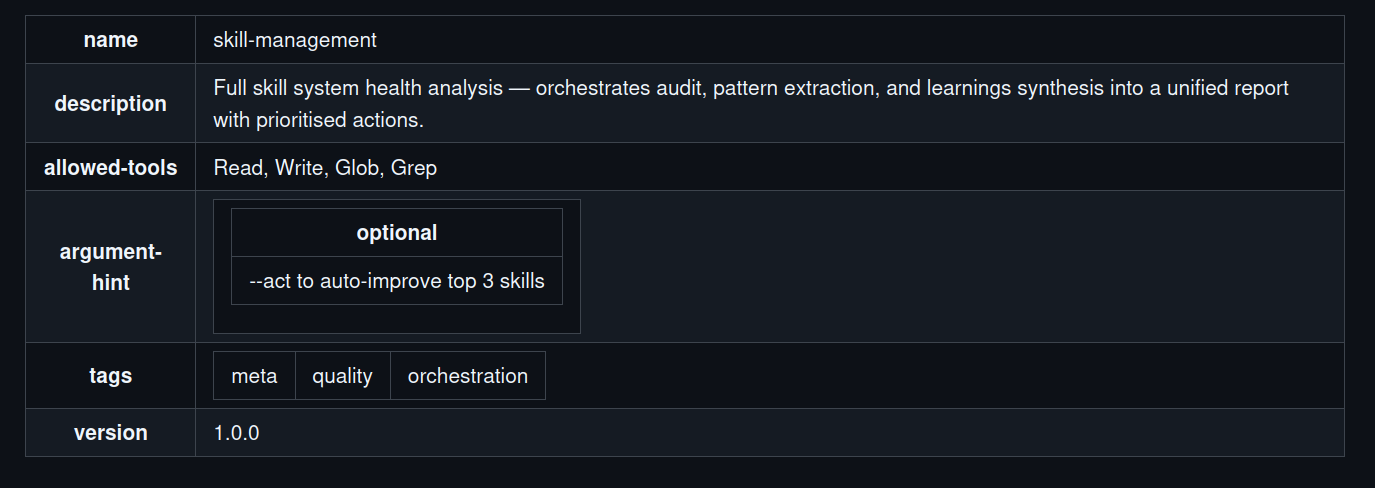
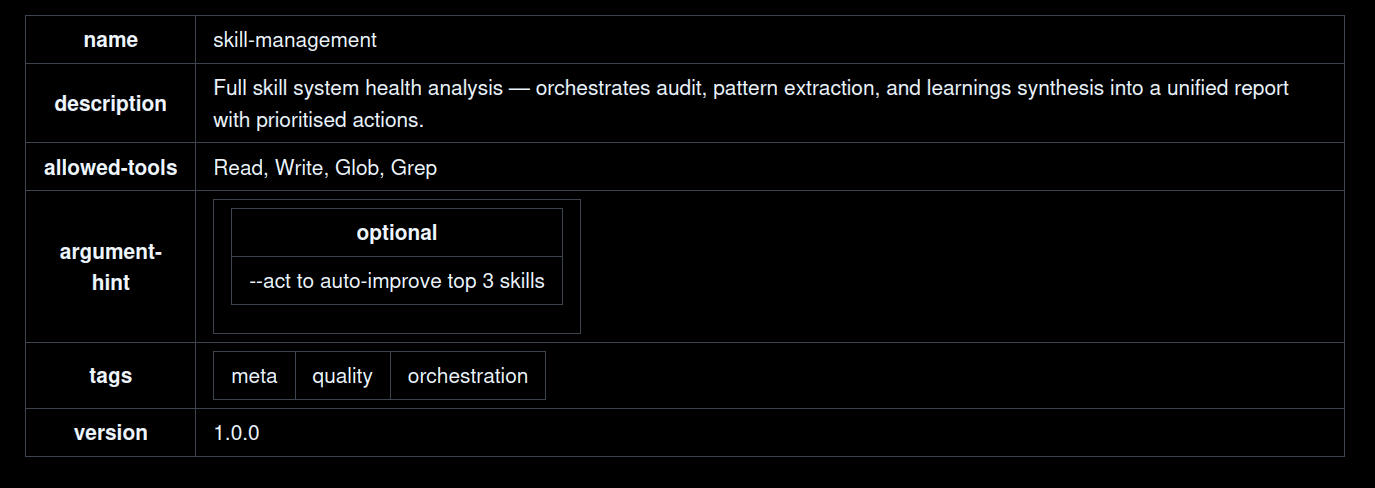
Theme-adaptive card art, timeline consulting + label layout, interests + custom domain
- Card banners stored dark; light mode inverts them (no-invert for Jacobian,
  teaching photo, dog-breeds photos). Keyed dark backgrounds to pure black so
  light-mode inversion lands on true white; fixed Gale-Shapley two-tone bg.
- Homepage: 9 section cards; light-mode invert + black/white-stroke titles;
  products card uses the Can't Stop image; large-dog card opts out of invert.
- Career timeline: add Consulting (2016-present) bar; collision-avoidance layout
  that packs labels minimally and never overlaps; dotted connectors that
  highlight on hover; horizontal scroll on mobile.
- Sticky (fixed) footer on non-mobile.
- Interests: remove icons, add SoundCloud/YouTube (music) and Photoblog/YouTube
  (photo and videography); drop dead topic-page links.
- Replace gmail with pm.me; add ImgEdt project card.
- Add CNAME (k1monfared.com) custom domain.

diff --git a/index.html b/index.html
@@ -47,7 +47,7 @@
 					<a href="projects.html#recommenders" class="expertise-card" style="background-image: url('images/projects/recommenders_home.png')"><h3>Recommenders and personalization</h3></a>
 					<a href="projects.html#modeling" class="expertise-card" style="background-image: url('images/projects/modeling_home.png')"><h3>Modeling and evaluation</h3></a>
 					<a href="projects.html#research" class="expertise-card" style="background-image: url('images/projects/research_home.png')"><h3>Research and analysis</h3></a>
-					<a href="projects.html#more" class="expertise-card" style="background-image: url('images/projects/large_dog_breeds.png')"><h3>Applied products and tools</h3></a>
+					<a href="projects.html#more" class="expertise-card" style="background-image: url('images/projects/cantstop-game.png')"><h3>Applied products and tools</h3></a>
 					<a href="projects.html#matrix-graph" class="expertise-card" style="background-image: url('images/projects/matrix_home.png')"><h3>Combinatorial matrix theory and algebraic graph theory</h3></a>
 					<a href="projects.html#neuro-signal" class="expertise-card" style="background-image: url('images/computationalneuroscience.webp')"><h3>Computational neuroscience and signal processing</h3></a>
 					<a href="projects.html#teaching" class="expertise-card" style="background-image: url('images/projects/teaching_home.png')"><h3>Teaching and outreach</h3></a>
@@ -72,6 +72,9 @@
 						<div class="h-timeline-bar" id="bar-umg" style="left:68%;width:6%"></div>
 						<div class="h-timeline-bar" id="bar-yelp" style="left:74%;width:12%"></div>
 						<div class="h-timeline-bar" id="bar-quora" style="left:86%;width:14%"></div>
+						<!-- Consulting is an ongoing, concurrent role (2018-present); the bar spans
+						     the full range and the card sits in the open space near "present". -->
+						<div class="h-timeline-bar" id="bar-consult" style="left:54%;width:46%"></div>
 
 						<!-- End year marker -->
 						<div class="h-timeline-years"><span style="left:94%">2026</span></div>
@@ -100,25 +103,29 @@
 							<div class="h-timeline-card"><div class="h-timeline-date">2015</div><div class="h-timeline-role">Postdoc</div><div class="h-timeline-org"><a href="https://science.ucalgary.ca/mathematics-statistics">U of Calgary</a></div></div>
 							<div class="h-timeline-dot"></div>
 						</div>
-						<div class="h-timeline-entry below" data-bar="bar-pims" style="left:58%">
+						<div class="h-timeline-entry below" data-bar="bar-consult" style="left:54%">
 							<div class="h-timeline-dot"></div>
+							<div class="h-timeline-card"><div class="h-timeline-date">2016&ndash;present</div><div class="h-timeline-role">Consultant</div><div class="h-timeline-org">Independent</div></div>
+						</div>
+						<div class="h-timeline-entry above" data-bar="bar-pims" style="left:58%">
 							<div class="h-timeline-card"><div class="h-timeline-date">2017</div><div class="h-timeline-role">PIMS Postdoc</div><div class="h-timeline-org"><a href="https://web.pims.math.ca/sites/university-calgary">U of Calgary</a></div></div>
+							<div class="h-timeline-dot"></div>
 						</div>
-						<div class="h-timeline-entry above" data-bar="bar-uvic" style="left:66%">
+						<div class="h-timeline-entry below" data-bar="bar-uvic" style="left:66%">
+							<div class="h-timeline-dot"></div>
 							<div class="h-timeline-card"><div class="h-timeline-date">2019</div><div class="h-timeline-role">Postdoc</div><div class="h-timeline-org"><a href="https://www.uvic.ca/science/math-statistics">U of Victoria</a></div></div>
-							<div class="h-timeline-dot"></div>
 						</div>
-						<div class="h-timeline-entry below" data-bar="bar-umg" style="left:68%">
-							<div class="h-timeline-dot"></div>
+						<div class="h-timeline-entry above" data-bar="bar-umg" style="left:68%">
 							<div class="h-timeline-card"><div class="h-timeline-date">2019</div><div class="h-timeline-role">Data Scientist</div><div class="h-timeline-org"><a href="https://www.universalmusic.com/">UMG / Ingrooves</a></div></div>
+							<div class="h-timeline-dot"></div>
 						</div>
-						<div class="h-timeline-entry above" data-bar="bar-yelp" style="left:74%">
+						<div class="h-timeline-entry below" data-bar="bar-yelp" style="left:74%">
+							<div class="h-timeline-dot"></div>
 							<div class="h-timeline-card"><div class="h-timeline-date">2021</div><div class="h-timeline-role">Data Scientist</div><div class="h-timeline-org"><a href="https://www.yelp.com">Yelp</a></div></div>
-							<div class="h-timeline-dot"></div>
 						</div>
-						<div class="h-timeline-entry below" data-bar="bar-quora" style="left:86%">
-							<div class="h-timeline-dot"></div>
+						<div class="h-timeline-entry above" data-bar="bar-quora" style="left:86%">
 							<div class="h-timeline-card"><div class="h-timeline-date">2024</div><div class="h-timeline-role">Senior Data Scientist</div><div class="h-timeline-org"><a href="https://www.quora.com">Quora</a></div></div>
+							<div class="h-timeline-dot"></div>
 						</div>
 					</div>
 				</div>
@@ -136,6 +143,50 @@
 						if (bar) bar.classList.remove('highlight');
 					});
 				});
+
+				// Collision-avoidance for the timeline labels. For each side of the line
+				// (above / below) we place cards left-to-right into stacked "tiers": a card
+				// that would horizontally overlap the last card in a tier is pushed to the
+				// next tier further from the line, so labels never overlap. The timeline
+				// height then grows to fit the deepest stack.
+				function layoutTimeline() {
+					var tl = document.querySelector('.h-timeline');
+					if (!tl) return;
+					var maxExt = 0;
+					var GAP = 6;
+					['above', 'below'].forEach(function (side) {
+						var entries = Array.prototype.slice.call(tl.querySelectorAll('.h-timeline-entry.' + side));
+						entries.forEach(function (e) { e.querySelector('.h-timeline-card').style.transform = ''; });
+						entries.sort(function (a, b) { return a.offsetLeft - b.offsetLeft; });
+						// Minimal-offset placement: each card (using its real content box) is pushed
+						// away from the line only as far as needed to clear the cards it actually
+						// overlaps, so labels that fit stay low.
+						var placed = [];
+						entries.forEach(function (e) {
+							var card = e.querySelector('.h-timeline-card');
+							var w = card.offsetWidth, h = card.offsetHeight, cx = e.offsetLeft;
+							var L = cx - w / 2, R = cx + w / 2;
+							var off = 0, changed = true;
+							while (changed) {
+								changed = false;
+								for (var i = 0; i < placed.length; i++) {
+									var p = placed[i];
+									if (p.R > L - GAP && p.L < R + GAP && !(off >= p.bottom + GAP || off + h <= p.top - GAP)) {
+										off = p.bottom + GAP; changed = true;
+									}
+								}
+							}
+							placed.push({ L: L, R: R, top: off, bottom: off + h });
+							card.style.transform = side === 'above' ? 'translateY(-' + off + 'px)' : 'translateY(' + off + 'px)';
+							card.style.setProperty('--conn', (off + 6) + 'px');
+							if (off + h > maxExt) maxExt = off + h;
+						});
+					});
+					tl.style.height = (2 * maxExt + 70) + 'px';
+				}
+				window.addEventListener('load', layoutTimeline);
+				window.addEventListener('resize', function () { clearTimeout(window.__tlT); window.__tlT = setTimeout(layoutTimeline, 150); });
+				if (document.readyState === 'complete') layoutTimeline();
 			</script>
 
 		</main>

diff --git a/css/mainCSS.css b/css/mainCSS.css
@@ -554,6 +554,25 @@ button:hover {
     width: 100%;
 }
 
+/* On non-mobile, pin the footer to the bottom of the screen (always visible).
+   Content gets bottom padding so nothing hides behind the fixed bar. */
+@media (min-width: 768px) {
+    .site-footer {
+        position: fixed;
+        left: 0;
+        right: 0;
+        bottom: 0;
+        margin-top: 0;
+        padding: 0.75rem 0;
+        background: var(--bg-primary);
+        border-top: 1px solid var(--border-color);
+        z-index: 50;
+    }
+    .container {
+        padding-bottom: 84px;
+    }
+}
+
 .footer-credit {
     color: var(--text-dimmer);
     font-size: 0.85rem;
@@ -903,6 +922,14 @@ button:hover {
     filter: invert(1);
 }
 
+/* Cards whose art must not invert (photos): keep the image and cancel the group flip. */
+[data-theme="light"] .expertise-card.no-invert,
+[data-theme="light"] .expertise-card.no-invert::before,
+[data-theme="light"] .expertise-card.no-invert h3,
+[data-theme="light"] .expertise-card.no-invert p {
+    filter: none;
+}
+
 /* In light mode the card titles read as black with a white outline. */
 [data-theme="light"] .expertise-card h3 {
     color: #0f172a;
@@ -958,7 +985,7 @@ button:hover {
     display: flex;
     flex-direction: column;
     align-items: center;
-    width: 105px;
+    width: auto;
     transform: translateX(-50%);
 }
 
@@ -995,8 +1022,26 @@ button:hover {
 .h-timeline-card {
     text-align: center;
     padding: 0.25rem;
-    width: 105px;
+    width: auto;
+    max-width: 120px;
+    position: relative;
 }
+
+/* Dotted connector from the dot on the line to the (possibly offset) card.
+   Height is set per-card by the layout script via the --conn variable. It picks
+   up the accent colour along with the bar when its entry is hovered. */
+.h-timeline-card::after {
+    content: '';
+    position: absolute;
+    left: 50%;
+    width: 0;
+    height: var(--conn, 0);
+    border-left: 1px dotted var(--text-dimmer);
+    pointer-events: none;
+}
+.h-timeline-entry.above .h-timeline-card::after { top: 100%; }
+.h-timeline-entry.below .h-timeline-card::after { bottom: 100%; }
+.h-timeline-entry:hover .h-timeline-card::after { border-color: var(--link-default); }
 
 .h-timeline-date {
     font-size: 0.65rem;
@@ -1041,6 +1086,20 @@ button:hover {
 
 .h-timeline-entry.edge-left .h-timeline-card {
     text-align: left;
+}
+
+/* On narrow screens the proportional timeline can't fit; instead of letting the
+   absolutely-positioned cards overlap and spill outside the page, keep the full
+   spacing and let the whole timeline scroll horizontally within its box. */
+@media (max-width: 760px) {
+    .h-timeline-wrapper {
+        overflow-x: auto;
+        overflow-y: hidden;
+        -webkit-overflow-scrolling: touch;
+    }
+    .h-timeline {
+        min-width: 700px;
+    }
 }
 
 /* ===== Selected highlights (homepage) ===== */
@@ -1382,6 +1441,30 @@ button:hover {
 
 .interest-card ul li {
     padding: 0.2rem 0;
+}
+
+.interest-card h3 a {
+    color: var(--text-primary);
+    text-decoration: none;
+}
+
+.interest-card h3 a:hover {
+    color: var(--link-default);
+}
+
+.interest-card .interest-links {
+    margin-top: 0.35rem;
+    font-size: 0.85rem;
+    color: var(--text-dim);
+}
+
+.interest-card .interest-links a {
+    color: var(--link-default);
+    text-decoration: none;
+}
+
+.interest-card .interest-links a:hover {
+    text-decoration: underline;
 }
 
 /* ===== About page ===== */

diff --git a/interests.html b/interests.html
@@ -35,35 +35,32 @@
 		<main class="main-content">
 
 			<div class="interests-grid">
-				<a href="interests/page.html?topic=music" class="interest-card" style="text-decoration:none;">
-					<div class="interest-icon"><svg viewBox="0 0 24 24"><path d="M9 18V5l12-2v13"/><circle cx="6" cy="18" r="3"/><circle cx="18" cy="16" r="3"/></svg></div>
+				<div class="interest-card">
 					<div><h3>Music</h3>
-					<p>Santoor (Iranian hammered dulcimer). A 72-string instrument with roots in Persian classical music.</p></div>
-				</a>
+					<p>Santoor (Iranian hammered dulcimer). A 72-string instrument with roots in Persian classical music.</p>
+					<p class="interest-links"><a href="https://soundcloud.com/k1monfared" target="_blank" rel="noopener">SoundCloud</a> &middot; <a href="https://www.youtube.com/watch?v=wy2w3-vfGOg&list=PLCRlVzUN6PEagpk1ccOgC4SItpOJhXgJz" target="_blank" rel="noopener">YouTube</a></p></div>
+				</div>
 
-				<a href="interests/page.html?topic=calligraphy" class="interest-card" style="text-decoration:none;">
-					<div class="interest-icon"><svg viewBox="0 0 24 24"><path d="M17 3a2.83 2.83 0 11-4 4L7.5 12.5 2 22l9.5-5.5L17 11a2.83 2.83 0 004-4l-4-4z"/><path d="M2 22l5-5"/></svg></div>
+				<div class="interest-card">
 					<div><h3>Calligraphy</h3>
 					<p>Persian calligraphy and lettering arts.</p></div>
-				</a>
+				</div>
 
-				<a href="interests/page.html?topic=woodworking" class="interest-card" style="text-decoration:none;">
-					<div class="interest-icon"><svg viewBox="0 0 24 24"><path d="M12 2L2 7l10 5 10-5-10-5z"/><path d="M2 17l10 5 10-5M2 12l10 5 10-5"/></svg></div>
+				<div class="interest-card">
 					<div><h3>Woodworking</h3>
 					<p>Crafting functional objects from wood.</p></div>
-				</a>
+				</div>
 
-				<a href="interests/page.html?topic=photography" class="interest-card" style="text-decoration:none;">
-					<div class="interest-icon"><svg viewBox="0 0 24 24"><path d="M23 19a2 2 0 01-2 2H3a2 2 0 01-2-2V8a2 2 0 012-2h4l2-3h6l2 3h4a2 2 0 012 2z"/><circle cx="12" cy="13" r="4"/></svg></div>
-					<div><h3>Photography</h3>
-					<p>Landscape and street photography.</p></div>
-				</a>
+				<div class="interest-card">
+					<div><h3>Photo and videography</h3>
+					<p>Landscape and street photography, and video.</p>
+					<p class="interest-links"><a href="https://k1monfared.github.io/photoblog/" target="_blank" rel="noopener">Photoblog</a> &middot; <a href="https://www.youtube.com/watch?v=C3NA_RDBOqw&list=PLCRlVzUN6PEYq-63oCSEwApBLQUlvXBbj" target="_blank" rel="noopener">YouTube</a></p></div>
+				</div>
 
-				<a href="learning.html" class="interest-card" style="text-decoration:none;">
-					<div class="interest-icon"><svg viewBox="0 0 24 24"><path d="M2 3h6a4 4 0 014 4v14a3 3 0 00-3-3H2z"/><path d="M22 3h-6a4 4 0 00-4 4v14a3 3 0 013-3h7z"/></svg></div>
-					<div><h3>Continuous Learning</h3>
+				<div class="interest-card">
+					<div><h3><a href="learning.html">Continuous Learning</a></h3>
 					<p>Courses and self-study across ML, signal processing, dynamical systems, and philosophy.</p></div>
-				</a>
+				</div>
 			</div>
 		</main>
 

diff --git a/about.html b/about.html
@@ -36,7 +36,7 @@
 				<h2>Contact</h2>
 				<div class="contact-info">
 					<div class="contact-links">
-						<p><b>Email:</b> k1monfared [at] gmail [dot] com</p>
+						<p><b>Email:</b> k1monfared [at] pm [dot] me</p>
 						<p><b>GitHub:</b> <a href="http://www.github.com/k1monfared" target="_blank">k1monfared</a></p>
 						<p><b>LinkedIn:</b> <a href="http://www.linkedin.com/in/k1monfared" target="_blank">k1monfared</a></p>
 						<p><b>Google Scholar:</b> <a href="http://scholar.google.com/citations?hl=en&user=usBmFlsAAAAJ" target="_blank">profile</a></p>
@@ -50,6 +50,7 @@
 			<section id="experience" class="about-section">
 				<h2>Experience</h2>
 				<table class="resume-table">
+					<tr><td class="resume-date">2016&ndash;present</td><td><b>Data Science Consultant</b>, Independent</td></tr>
 					<tr><td class="resume-date">2024&ndash;present</td><td><b>Senior Data Scientist</b>, <a href="https://www.quora.com" target="_blank">Quora</a></td></tr>
 					<tr><td class="resume-date">2021&ndash;2023</td><td><b>Data Scientist</b>, <a href="https://www.yelp.com" target="_blank">Yelp</a></td></tr>
 					<tr><td class="resume-date">2019&ndash;2021</td><td><b>Data Scientist</b>, <a href="https://www.universalmusic.com/" target="_blank">Universal Music Group / Ingrooves</a></td></tr>

diff --git a/projects.html b/projects.html
@@ -342,7 +342,7 @@
 				summary: "An interactive, evidence-backed guide to 21 software and media licenses where every comparison claim links to the exact sentence in the license text, with OSI and FSF status and grey-area flags."
 			},
 			{
-				area: "more", name: "Large dog breeds archive", repo: "large_dog_breeds", demo: true,
+				area: "more", name: "Large dog breeds archive", repo: "large_dog_breeds", demo: true, noInvert: true,
 				tags: ["web scraping", "trait scoring", "interactive site"],
 				summary: "An interactive reference for 75 large dog breeds with a service-dog suitability score built from a trait correlation analysis."
 			},
@@ -670,7 +670,7 @@
 			"content_quality_evaluation_llm", "news_reader", "claude_public_skills",
 			"manufacturing_taste", "large_dog_breeds", "mortgage_rate_tracker", "cafe_manager",
 			"machine_learning", "terminal", "states_during_regime_change", "alberta_schools_dropout",
-			"cantstop-game", "license_explorer"]);
+			"cantstop-game", "license_explorer", "mobile_photo_editor"]);
 
 		function card(p) {
 			const links = [];

diff --git a/contact.html b/contact.html
@@ -64,7 +64,7 @@
 				<h2 class="heading2"> Contact Information </h2>
 				<p>
 					<img class="keivanImage" src="images/keivanC.webp" alt="Keivan Hassani Monfared" style="width: 30%;" />
-					<b> email: </b>k1monfared [at] gmail [dot] com</br>
+					<b> email: </b>k1monfared [at] pm [dot] me</br>
 					<b> Website: </b><a href="k1monfared.github.io">k1monfared.github.io</a></br>
 					<b> GitHub: </b><a href="http://www.github.com/k1monfared">k1monfared</a></br>
 					<b> LinkedIn: </b><a href="http://www.linkedin.com/in/k1monfared">k1monfared</a></br>
